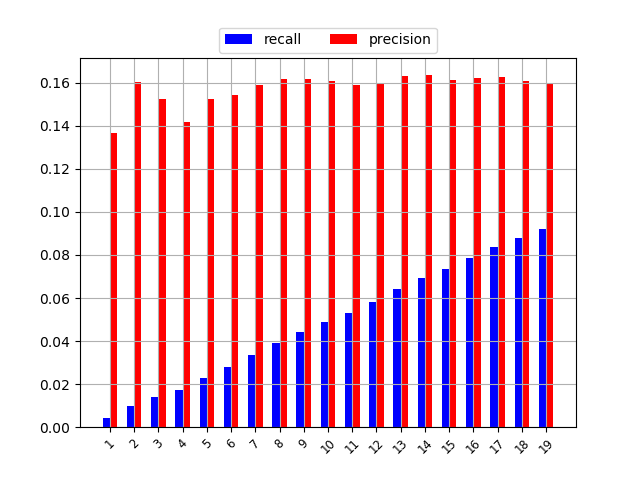
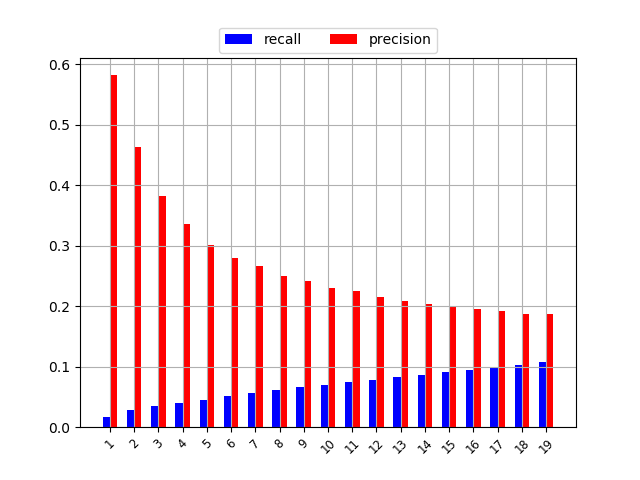
add count delata

diff --git a/src/single_test.py b/src/single_test.py
@@ -10,6 +10,7 @@ import networkx as nx
 import tensorflow as tf
 from operator import itemgetter
 
+from batch_strategy import BatchStrategy
 from utils.env import *
 from utils.data_handler import DataHandler as dh
 from utils.metric import Metric
@@ -17,30 +18,10 @@ from utils.metric import Metric
 FILE_PATH = os.path.dirname(os.path.abspath(__file__))
 
 def train_model(params, is_save = True):
-    data_set = dh.load_cascades(os.path.join(DATA_PATH, params["data_file"]))
-    var_list = [0, 0]
-    def get_batch(batch_size):
-        batch_x = []
-        batch_y = []
-        for _ in xrange(batch_size):
-            y = np.zeros(params["num_node"])
-            for i in xrange(var_list[1], -1, -1):
-                delta = data_set[var_list[0]][var_list[1]][1] - data_set[var_list[0]][i][1]
-                if delta > params["T"]:
-                    break
-                y[data_set[var_list[0]][i][0]] = math.exp(
-                        -params["K"] * delta)
-            batch_y.append(y)
-            batch_x.append([data_set[var_list[0]][var_list[1]][0]])
-            var_list[1] += 1
-            if var_list[1] == len(data_set[var_list[0]]):
-                var_list[1] = 0
-                var_list[0] = (var_list[0]+ 1) % len(data_set)
-        return batch_x, batch_y
-
-    nkg = params["model"](params)
-    embeddings, coefficient = nkg.Train(get_batch,
-                                        epoch_num = params["iteration"])
+    bs = BatchStrategy(params)
+    module = __import__(params["model"]).NodeSkipGram
+    nkg = module(params)
+    embeddings, coefficient = nkg.Train(getattr(bs, params["batch_func"]), epoch_num = params["iteration"])
     if is_save:
         d = {"embeddings": embeddings.tolist(), "coefficient": coefficient.tolist()}
         file_path = os.path.join(RES_PATH, "training_res_" + str(int(time.time() * 1000.0)))
@@ -70,9 +51,7 @@ def main():
     args = parser.parse_args()
     params = dh.load_json_file(os.path.join(SINGLE_CONF_PATH, args.conf + ".json"))
     params["iteration"] = args.iteration
-
-    module = __import__(args.model).NodeSkipGram
-    params["model"] = module
+    params["model"] = args.model
 
     if args.operation == "all":
         train_model(params)

diff --git a/src/batch_strategy.py b/src/batch_strategy.py
@@ -1,0 +1,50 @@
+import sys
+import os
+import re
+import math
+import numpy as np
+
+from utils.env import *
+from utils.data_handler import DataHandler as dh
+
+class BatchStrategy(object):
+    def __init__(self, params):
+        self.data_set = dh.load_cascades(os.path.join(DATA_PATH, params["data_file"]))
+        self.num_nodes = params["num_node"]
+        self.K = params["K"]
+        self.T = params["T"]
+        if re.match(r'.*sequential.*', params["batch_func"]) is not None:
+            self.n = 0
+            self.m = 0
+        if re.match(r'.*avg.*', params["batch_func"]):
+            self.avg_delta = dh.cal_average_delta(self.data_set, self.num_nodes, self.K, self.T)
+
+
+    def sequential_avg(self, batch_size):
+        batch_x = []
+        batch_y = []
+        for _ in xrange(batch_size):
+            batch_x.append([self.n])
+            batch_y.append(self.avg_delta[self.n])
+            self.n = (self.n + 1) % self.num_nodes
+        return batch_x, batch_y
+
+
+    def sequential_origin(self, batch_size):
+        batch_x = []
+        batch_y = []
+        for _ in xrange(batch_size):
+            y = np.zeros(self.num_nodes)
+            for i in xrange(self.m, -1, -1):
+                delta = self.data_set[self.n][self.m][1] - self.data_set[self.n][i][1]
+                if delta > self.T:
+                    break
+                y[self.data_set[self.n][i][0]] = math.exp(
+                        - self.K * delta)
+            batch_y.append(y)
+            batch_x.append([self.data_set[self.n][self.m][0]])
+            self.m += 1
+            if self.m == len(self.data_set[self.n]):
+                self.m = 0
+                self.n = (self.n + 1) % len(self.data_set)
+        return batch_x, batch_y

diff --git a/src/utils/data_handler.py b/src/utils/data_handler.py
@@ -3,6 +3,9 @@ import sys
 import networkx as nx
 import re
 import json
+import numpy as np
+import math
+
 
 class DataHandler(object):
     @staticmethod
@@ -43,3 +46,25 @@ class DataHandler(object):
                 items = line.split(",")
                 G.add_edge(int(items[0]), int(items[1]))
         return G
+
+    @staticmethod
+    def cal_average_delta(data_set,
+                        num_of_nodes,
+                        K = 1.0,
+                        T = float('inf')):
+        n = num_of_nodes
+        res = np.zeros((n, n), dtype = float)
+        cnt = np.zeros(n, dtype = float)
+        for data in data_set:
+            for i in xrange(len(data)):
+                for j in xrange(i, len(data)):
+                    if data[i][1] - data[j][1] > T:
+                        break
+                    else:
+                        res[data[i][0]][data[j][0]] += math.exp(K * (data[i][1] - data[j][1]))
+                cnt[data[i][0]] += 1.0
+        for i in xrange(n):
+            for j in xrange(n):
+                res[i][j] /= float(cnt[i])
+        return res
+

diff --git a/src/multi_test.py b/src/multi_test.py
@@ -49,10 +49,15 @@ def main():
             continue
         single_params[item[0]] = item[1]
     for m in params["models"]:
-        single_params["model"] = __import__(
-                m["model_name"]).NodeSkipGram
-        single_params["iteration"] = m["iteration"]
-        tmp = [item for item in m.items() if item[0] != "model_name" and item[0] != "iteration"]
+        for it in m.items():
+            if it[0] == "traversal":
+                continue
+            else:
+                single_params[it[0]] = it[1]
+        if "traversal" not in m:
+            tmp = []
+        else:
+            tmp = [item for item in m["traversal"].items()]
         with open(out_path, "a") as f:
             dfs(tmp, single_params, f)
 

diff --git a/script/sort_cascades.py b/script/sort_cascades.py
@@ -13,7 +13,7 @@ with open('../data/cascades256.txt', "r") as f:
             b.append((int(nums[i]), float(nums[i+1])))
         b.sort(key = lambda t : t[1])
         a.append(b)
-with open('../data/casecades256_sorted', "w") as f:
+with open('../data/cascades256_sorted', "w") as f:
     for item in a:
         for it in item:
             f.write(str(it[0]) + "\t" + str(it[1]) + "\t")
